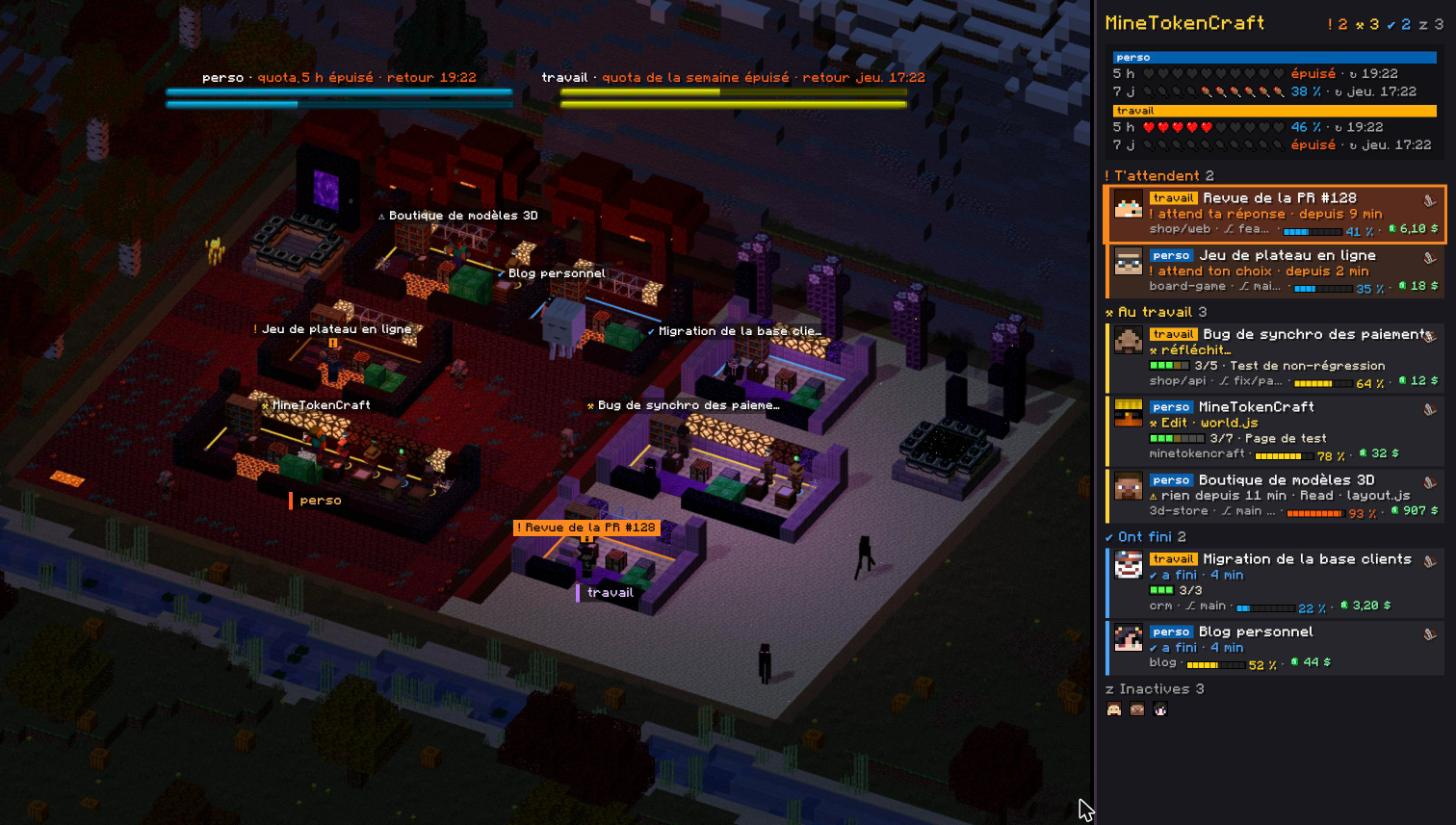
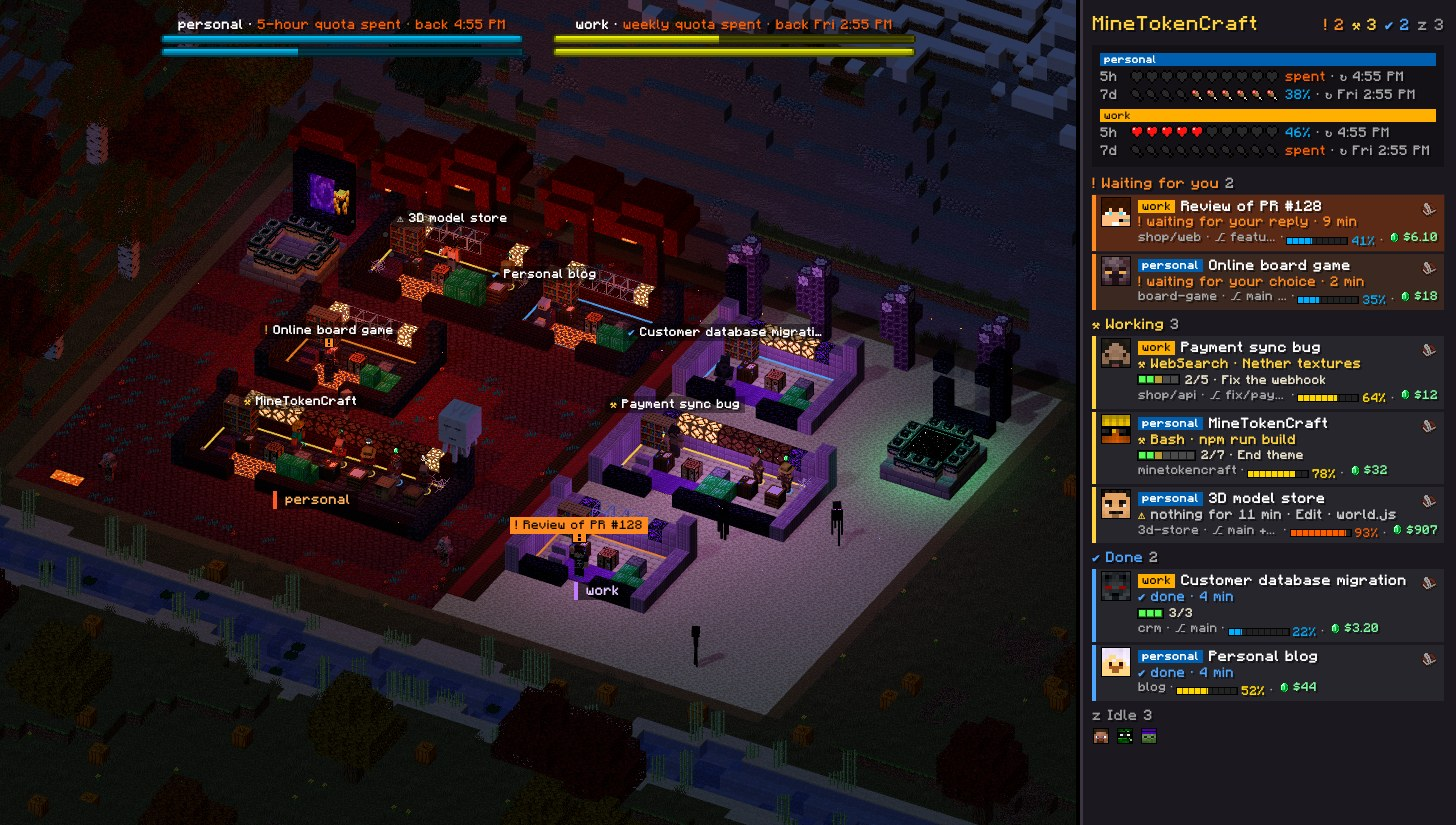
docs: animated tour at the top of the README, English screenshots
scripts/capture.mjs takes the screenshots, the animation and the social
preview from the test page in headless Chrome (npm run capture).

diff --git a/public/js/main.js b/public/js/main.js
@@ -890,6 +890,7 @@ function startDemo() {
   ];
   for (const [key, options] of environmentSelects) {
     const control = document.createElement('select');
+    control.id = `demo-${key}`;
     control.innerHTML = options.map(([value, label]) => `<option value="${value}">${t(`demo.${key}.${label}`)}</option>`).join('');
     control.addEventListener('change', () => {
       envOverride = { ...envOverride, [key]: control.value === '' ? undefined : key === 'hour' ? Number(control.value) : control.value };
@@ -897,6 +898,7 @@ function startDemo() {
     document.getElementById('toolbar').append(control);
   }
   const leave = document.createElement('button');
+  leave.id = 'demo-leave';
   leave.type = 'button';
   leave.textContent = t('demo.leave');
   leave.addEventListener('click', () => {
@@ -947,6 +949,12 @@ window.minetokencraft = {
   applyState,
   state: () => structuredClone(state),
   pause: (value = true) => (paused = value),
+  // Rooms with the screen position of their center, to point at them from the console (or the capture script).
+  rooms: () => [...(layout?.rooms.values() ?? [])].map((room) => {
+    const point = new THREE.Vector3(room.x0 + room.width / 2, 1, room.z0 + ROOM_DEPTH / 2).project(camera);
+    const rect = canvas.getBoundingClientRect();
+    return { id: room.player?.id ?? null, status: room.player?.status ?? null, x: Math.round(rect.left + (point.x + 1) / 2 * rect.width), y: Math.round(rect.top + (1 - point.y) / 2 * rect.height) };
+  }),
   // Creatures by theme, with their screen position (to aim from the console) and their health.
   mobs: () => [...herd.groups.values()].map((group) => ({
     theme: group.theme,

diff --git a/README.fr.md b/README.fr.md
@@ -19,7 +19,7 @@ Qui travaille, qui t'attend, qui a fini, à quel point chaque contexte est rempl
 
 [English](README.md) · Français
 
-<img src="docs/screenshots/village.jpg" alt="Le village : une aile par compte Claude, une pièce par session, le paysage autour" width="100%">
+<img src="docs/demo.gif" alt="MineTokenCraft en action : des sessions au travail, l'infobulle d'une session qui attend, des comptes sans quota qui partent dans le Nether et l'End, une nuit de pluie, le mode simple" width="100%">
 
 </div>
 
@@ -57,6 +57,12 @@ Qui travaille, qui t'attend, qui a fini, à quel point chaque contexte est rempl
 - ⚡ **Léger.** Environ 200 appels de dessin par image, 30 i/s quand la fenêtre a le focus, 20 sinon, rien quand l'onglet est caché.
 
 <table>
+  <tr>
+    <td colspan="2"><img src="docs/screenshots/village.jpg" alt="Le village de jour : une aile par compte Claude, une pièce par session"></td>
+  </tr>
+  <tr>
+    <td colspan="2" align="center"><sub>Une journée au village, chaque session au meuble de son outil</sub></td>
+  </tr>
   <tr>
     <td width="50%"><img src="docs/screenshots/nether-end.jpg" alt="Un compte sans quota 5 h dans le Nether, l'autre sans quota de la semaine dans l'End, de nuit"></td>
     <td width="50%"><img src="docs/screenshots/winter.jpg" alt="L'hiver : neige au sol et sur les arbres, rivière gelée"></td>

diff --git a/README.md b/README.md
@@ -19,7 +19,7 @@ Who is working, who is waiting for you, who is done, how full each context is, w
 
 English · [Français](README.fr.md)
 
-<img src="docs/screenshots/village.jpg" alt="The village: one wing per Claude account, one room per session, the landscape around" width="100%">
+<img src="docs/demo.gif" alt="MineTokenCraft in action: sessions at work, the tooltip of a waiting session, accounts out of quota moving to the Nether and the End, a rainy night, simple mode" width="100%">
 
 </div>
 
@@ -57,6 +57,12 @@ English · [Français](README.fr.md)
 - ⚡ **Light on resources.** About 200 draw calls a frame, 30 fps when focused, 20 when not, nothing when the tab is hidden.
 
 <table>
+  <tr>
+    <td colspan="2"><img src="docs/screenshots/village.jpg" alt="The village by day: one wing per Claude account, one room per session"></td>
+  </tr>
+  <tr>
+    <td colspan="2" align="center"><sub>A day in the village, each session at the furniture of its tool</sub></td>
+  </tr>
   <tr>
     <td width="50%"><img src="docs/screenshots/nether-end.jpg" alt="One account out of 5-hour quota in the Nether, the other out of weekly quota in the End, at night"></td>
     <td width="50%"><img src="docs/screenshots/winter.jpg" alt="Winter: snow on the ground and on the trees, frozen river"></td>
